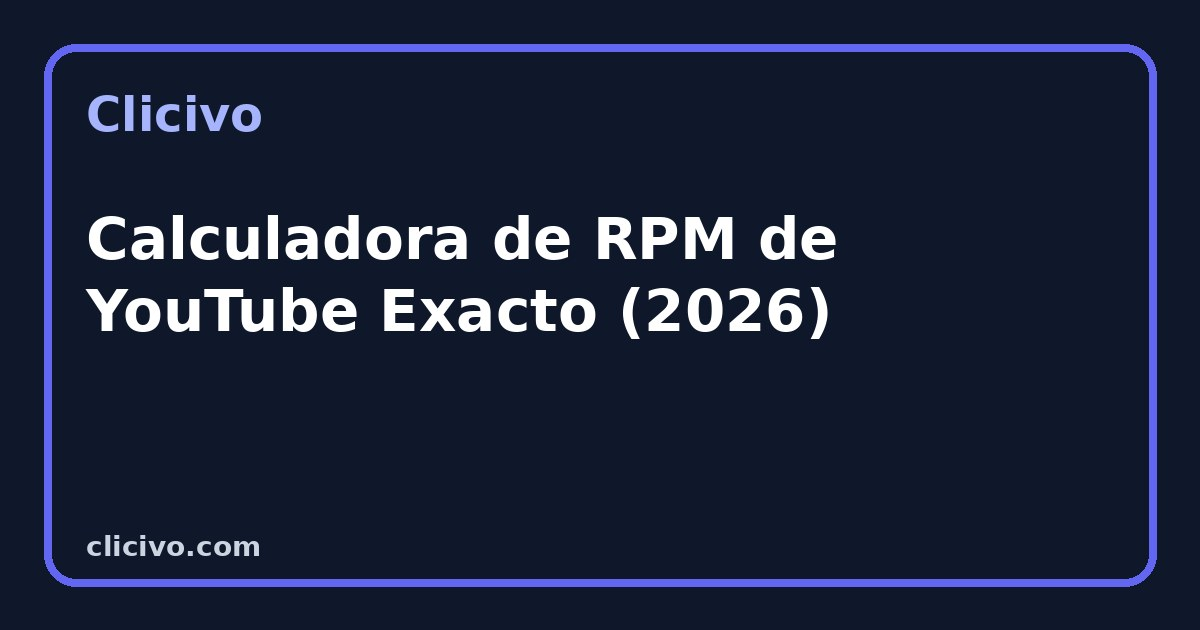
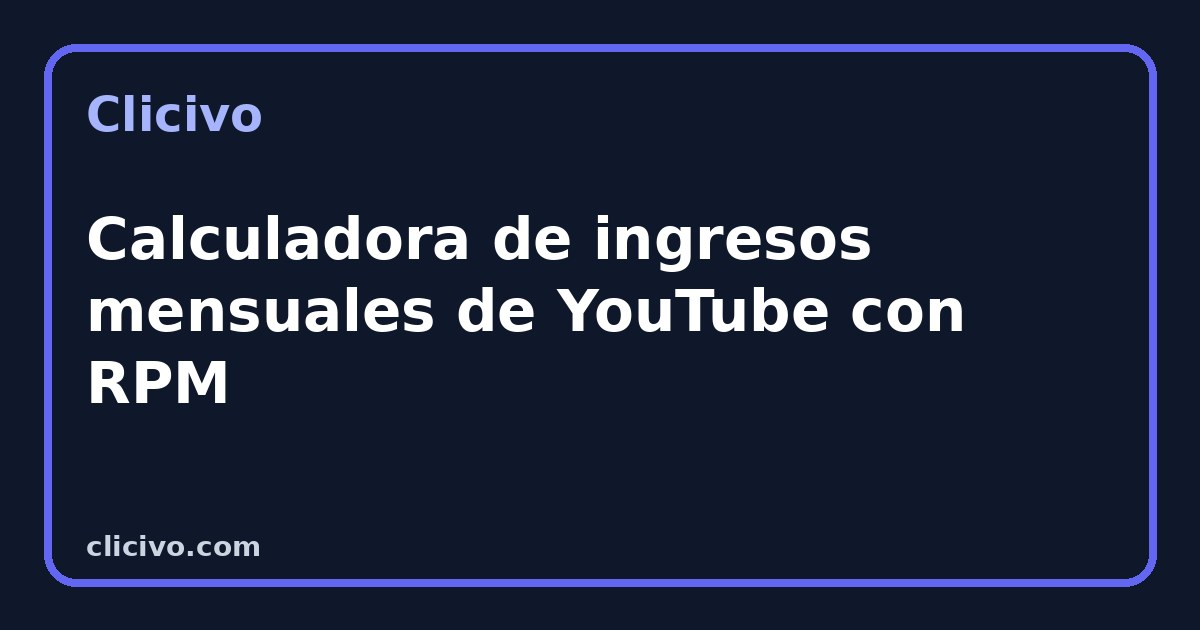
Deploying to gh-pages from @ unaiburguete-bot/minitools@fc1eda618243a52afbe258018976702f93efe385 🚀

Changed region(s): [[0.0617, 0.3317, 0.8017, 0.5429], [0.0617, 0.573, 0.2158, 0.6635]]

diff --git a/es/youtube/monetizacion/rpm-youtube/index.html b/es/youtube/monetizacion/rpm-youtube/index.html
@@ -3,23 +3,23 @@
 <head>
     <meta charset="utf-8">
     <meta name="viewport" content="width=device-width, initial-scale=1">
-    <title>Calculadora de RPM de YouTube Exacto (2026) | Clicivo</title>
-    <meta name="description" content="Calcula cuánto dinero genera tu canal de YouTube según tu RPM y visitas de forma automática.">
+    <title>Calculadora de ingresos mensuales de YouTube con RPM | Clicivo</title>
+    <meta name="description" content="Estima cuánto puede generar un canal de YouTube al mes según sus visualizaciones diarias, el número de días y su RPM.">
     <link rel="canonical" href="https://clicivo.com/es/youtube/monetizacion/rpm-youtube/">
     <meta property="og:type" content="website">
     <meta property="og:site_name" content="Clicivo">
-    <meta property="og:title" content="Calculadora de RPM de YouTube Exacto (2026)">
-    <meta property="og:description" content="Calcula cuánto dinero genera tu canal de YouTube según tu RPM y visitas de forma automática.">
+    <meta property="og:title" content="Calculadora de ingresos mensuales de YouTube con RPM">
+    <meta property="og:description" content="Estima cuánto puede generar un canal de YouTube al mes según sus visualizaciones diarias, el número de días y su RPM.">
     <meta property="og:url" content="https://clicivo.com/es/youtube/monetizacion/rpm-youtube/">
     <meta property="og:image" content="https://clicivo.com/assets/og/rpm-youtube.jpg/">
     <meta name="twitter:card" content="summary_large_image">
-    <meta name="twitter:title" content="Calculadora de RPM de YouTube Exacto (2026)">
-    <meta name="twitter:description" content="Calcula cuánto dinero genera tu canal de YouTube según tu RPM y visitas de forma automática.">
+    <meta name="twitter:title" content="Calculadora de ingresos mensuales de YouTube con RPM">
+    <meta name="twitter:description" content="Estima cuánto puede generar un canal de YouTube al mes según sus visualizaciones diarias, el número de días y su RPM.">
     <meta name="twitter:image" content="https://clicivo.com/assets/og/rpm-youtube.jpg/">
     <link rel="preconnect" href="https://fonts.googleapis.com">
     <link rel="preconnect" href="https://fonts.gstatic.com" crossorigin>
     <link href="https://fonts.googleapis.com/css2?family=Plus+Jakarta+Sans:wght@400;500;600;700;800&display=swap" rel="stylesheet">
-    <script type="application/ld+json">[{"@context":"https://schema.org","@type":"SoftwareApplication","name":"Calculadora de RPM de YouTube Exacto (2026)","description":"Calcula cuánto dinero genera tu canal de YouTube según tu RPM y visitas de forma automática.","url":"https://clicivo.com/es/youtube/monetizacion/rpm-youtube/","applicationCategory":"UtilitiesApplication","operatingSystem":"Any","offers":{"@type":"Offer","price":"0","priceCurrency":"EUR"}},{"@context":"https://schema.org","@type":"BreadcrumbList","itemListElement":[{"@type":"ListItem","position":1,"name":"Inicio","item":"https://clicivo.com/"},{"@type":"ListItem","position":2,"name":"Youtube · Monetizacion","item":"https://clicivo.com/es/youtube/monetizacion/"},{"@type":"ListItem","position":3,"name":"Revenue Per Mille","item":"https://clicivo.com/es/youtube/monetizacion/rpm-youtube/"}]}]</script>
+    <script type="application/ld+json">[{"@context":"https://schema.org","@type":"SoftwareApplication","name":"Calculadora de ingresos mensuales de YouTube con RPM","description":"Estima cuánto puede generar un canal de YouTube al mes según sus visualizaciones diarias, el número de días y su RPM.","url":"https://clicivo.com/es/youtube/monetizacion/rpm-youtube/","applicationCategory":"UtilitiesApplication","operatingSystem":"Any","offers":{"@type":"Offer","price":"0","priceCurrency":"EUR"}},{"@context":"https://schema.org","@type":"BreadcrumbList","itemListElement":[{"@type":"ListItem","position":1,"name":"Inicio","item":"https://clicivo.com/"},{"@type":"ListItem","position":2,"name":"Youtube · Monetizacion","item":"https://clicivo.com/es/youtube/monetizacion/"},{"@type":"ListItem","position":3,"name":"Ingresos mensuales estimados de YouTube","item":"https://clicivo.com/es/youtube/monetizacion/rpm-youtube/"}]}]</script>
     <style>
         :root {
             --bg:#f8fafc;--surface:#fff;--border:#e2e8f0;--text:#0f172a;--muted:#64748b;
@@ -51,12 +51,12 @@
 <nav class="header-nav"><div class="nav-container"><a href="/"><span class="brand-mark">◆</span> Clicivo</a></div></nav>
 <div class="main-layout">
     <main>
-        <nav class="breadcrumbs" aria-label="Migas de pan"><a href="/">Inicio</a> › <a href="/es/youtube/monetizacion/">Youtube · Monetizacion</a> › <span>Revenue Per Mille</span></nav>
+        <nav class="breadcrumbs" aria-label="Migas de pan"><a href="/">Inicio</a> › <a href="/es/youtube/monetizacion/">Youtube · Monetizacion</a> › <span>Ingresos mensuales estimados de YouTube</span></nav>
         <section class="tool-card">
             <span class="free-badge">Herramienta gratuita</span>
-            <h1>¿Cuánto dinero paga YouTube por tus visitas? Calcular RPM Exacto</h1>
+            <h1>Calcular ingresos mensuales estimados de YouTube con visualizaciones diarias y RPM</h1>
             <div class="tool-ui-box">
-        <label for="visitas">Número de Visitas Totales</label><input type="number" id="visitas" placeholder="Ej. 100000" inputmode="decimal" min="0" step="1"><label for="rpm">Tu RPM Estimado (€)</label><input type="number" id="rpm" placeholder="Ej. 4.25" inputmode="decimal" min="0" step="0.01">
+        <label for="visitas_diarias">Visualizaciones diarias</label><input type="number" id="visitas_diarias" placeholder="Ej. 10000" inputmode="decimal" min="0" step="1"><label for="dias">Número de días</label><input type="number" id="dias" placeholder="Ej. 30" inputmode="decimal" min="1" step="1"><label for="rpm">RPM estimado (€)</label><input type="number" id="rpm" placeholder="Ej. 4.25" inputmode="decimal" min="0" step="0.01">
         <button type="button" onclick="calculate_rpm_youtube()" class="calc-btn">Calcular ahora</button>
         <p id="error_rpm-youtube" class="calc-error" role="alert" hidden></p>
         <div id="result_rpm-youtube" class="calc-result-box" role="status" aria-live="polite" hidden></div>
@@ -71,12 +71,12 @@
                     errorBox.hidden = false;
                 };
                 errorBox.hidden = true;
-                const raw_visitas = document.getElementById("visitas").value.trim();if (raw_visitas === '') return showError('Completa el campo ' + "Número de Visitas Totales" + '.');const number_visitas = Number(raw_visitas);if (!Number.isFinite(number_visitas)) return showError('Introduce un número válido en ' + "Número de Visitas Totales" + '.');if (number_visitas < 0) return showError('El valor de ' + "Número de Visitas Totales" + ' no puede ser menor que 0.');values["inputs.visitas"] = number_visitas;const raw_rpm = document.getElementById("rpm").value.trim();if (raw_rpm === '') return showError('Completa el campo ' + "Tu RPM Estimado (€)" + '.');const number_rpm = Number(raw_rpm);if (!Number.isFinite(number_rpm)) return showError('Introduce un número válido en ' + "Tu RPM Estimado (€)" + '.');if (number_rpm < 0) return showError('El valor de ' + "Tu RPM Estimado (€)" + ' no puede ser menor que 0.');values["inputs.rpm"] = number_rpm;
-                if (1000 === 0) return showError('No es posible dividir entre cero.');values["bloques_mil"] = values["inputs.visitas"] / 1000;values["ingresos_totales"] = values["bloques_mil"] * values["inputs.rpm"];
-                const result = values["ingresos_totales"];
+                const raw_visitas_diarias = document.getElementById("visitas_diarias").value.trim();if (raw_visitas_diarias === '') return showError('Completa el campo ' + "Visualizaciones diarias" + '.');const number_visitas_diarias = Number(raw_visitas_diarias);if (!Number.isFinite(number_visitas_diarias)) return showError('Introduce un número válido en ' + "Visualizaciones diarias" + '.');if (number_visitas_diarias < 0) return showError('El valor de ' + "Visualizaciones diarias" + ' no puede ser menor que 0.');values["inputs.visitas_diarias"] = number_visitas_diarias;const raw_dias = document.getElementById("dias").value.trim();if (raw_dias === '') return showError('Completa el campo ' + "Número de días" + '.');const number_dias = Number(raw_dias);if (!Number.isFinite(number_dias)) return showError('Introduce un número válido en ' + "Número de días" + '.');if (number_dias < 1) return showError('El valor de ' + "Número de días" + ' no puede ser menor que 1.');values["inputs.dias"] = number_dias;const raw_rpm = document.getElementById("rpm").value.trim();if (raw_rpm === '') return showError('Completa el campo ' + "RPM estimado (€)" + '.');const number_rpm = Number(raw_rpm);if (!Number.isFinite(number_rpm)) return showError('Introduce un número válido en ' + "RPM estimado (€)" + '.');if (number_rpm < 0) return showError('El valor de ' + "RPM estimado (€)" + ' no puede ser menor que 0.');values["inputs.rpm"] = number_rpm;
+                values["visitas_periodo"] = values["inputs.visitas_diarias"] * values["inputs.dias"];if (1000 === 0) return showError('No es posible dividir entre cero.');values["bloques_mil"] = values["visitas_periodo"] / 1000;values["ingresos_periodo"] = values["bloques_mil"] * values["inputs.rpm"];
+                const result = values["ingresos_periodo"];
                 if (!Number.isFinite(result)) return showError('No se ha podido calcular el resultado. Revisa los valores.');
                 const formatted = new Intl.NumberFormat('es-ES', { maximumFractionDigits: 2 }).format(result);
-                resultBox.textContent = "Ingresos Totales Estimados" + ': ' + formatted + ("€" ? ' ' + "€" : '');
+                resultBox.textContent = "Ingresos estimados del periodo" + ': ' + formatted + (" €" ? ' ' + " €" : '');
                 resultBox.hidden = false;
             }
         </script>
@@ -84,15 +84,35 @@
         </section>
         
         <article class="seo-article">
-            <h1>¿Cuánto paga YouTube realmente? Guía definitiva sobre el RPM</h1>
-<p>El <strong>RPM</strong> (Revenue Per Mille) es la métrica más honesta y transparente que existe para un creador de contenido. A diferencia del CPM, el RPM calcula el dinero real que va a parar a tu bolsillo tras las comisiones de la plataforma.</p>
-<h2>Ejemplos prácticos de cálculo en escenarios reales</h2>
-<p>El RPM cambia según el país de la audiencia, la temática, la época del año, la duración de los vídeos y la mezcla de ingresos. Para obtener una proyección útil, introduce el RPM real que aparece en YouTube Analytics y compara periodos equivalentes.</p>
-<h2>Errores críticos al analizar tus métricas</h2>
-<p>El fallo más común de los principiantes es multiplicar sus visitas totales por el CPM de los vídeos. Recuerda que no todas las visualizaciones generan publicidad y que el reparto de ingresos depende del producto y del formato. Para proyectar el negocio, utiliza el RPM real de tu canal y explica siempre que el resultado es una estimación.</p>
-            <p class="reviewed">Última revisión: 2026-07-11</p>
+            <h1>Calculadora de ingresos mensuales de YouTube</h1>
+<p>Esta herramienta estima cuánto podría generar un canal durante un mes o cualquier otro periodo a partir de sus visualizaciones diarias y su RPM.</p>
+<p>La fórmula utilizada es:</p>
+<p><strong>Ingresos estimados = visualizaciones diarias × días ÷ 1.000 × RPM</strong></p>
+<h2>Ejemplo práctico</h2>
+<p>Un canal recibe <strong>10.000 visualizaciones diarias</strong>, mantiene ese ritmo durante <strong>30 días</strong> y tiene un RPM de <strong>4,25 €</strong>:</p>
+<p><strong>10.000 × 30 ÷ 1.000 × 4,25 = 1.275 €</strong></p>
+<p>Los ingresos estimados del periodo serían <strong>1.275 €</strong>.</p>
+<h2>Cómo utilizar esta calculadora</h2>
+<p>Introduce:</p>
+<ul>
+<li>La media de visualizaciones que recibe el canal cada día.</li>
+<li>El número de días que deseas proyectar.</li>
+<li>El RPM real o estimado del canal.</li>
+</ul>
+<p>Puedes utilizar 30 días para una proyección mensual o cambiar el periodo para calcular una semana, un trimestre u otra duración.</p>
+<h2>Qué RPM conviene introducir</h2>
+<p>Para una estimación realista, utiliza el RPM de YouTube Analytics correspondiente a un periodo reciente y comparable.</p>
+<p>También puedes probar tres escenarios:</p>
+<ul>
+<li>Prudente, con un RPM bajo.</li>
+<li>Probable, con el RPM medio del canal.</li>
+<li>Optimista, con un RPM más alto.</li>
+</ul>
+<h2>Limitaciones</h2>
+<p>La proyección presupone que el ritmo de visualizaciones y el RPM se mantienen estables durante todo el periodo. Los resultados reales pueden variar por país, temática, época del año, duración de los vídeos y porcentaje de visualizaciones monetizadas.</p>
+            <p class="reviewed">Última revisión: 2026-07-12</p>
             <h2 class="faq-heading">Preguntas frecuentes</h2>
-            <div class="faq-item"><h3>¿Cuál es la diferencia entre CPM y RPM?</h3><p>El CPM es el coste que pagan los anunciantes por cada 1.000 impresiones de anuncios, mientras que el RPM son tus ingresos netos reales por cada 1.000 visitas tras la comisión de YouTube.</p></div><div class="faq-item"><h3>¿Cómo puedo subir mi RPM?</h3><p>El RPM varía según la audiencia, la temática, la estacionalidad, el formato publicitario y otras fuentes de ingresos. Compáralo por periodos equivalentes y revisa los datos reales de YouTube Analytics.</p></div>
+            <div class="faq-item"><h3>¿Cómo se calculan los ingresos mensuales de YouTube?</h3><p>Se multiplican las visualizaciones diarias por el número de días, se divide el resultado entre 1.000 y se multiplica por el RPM.</p></div><div class="faq-item"><h3>¿El resultado es una cantidad garantizada?</h3><p>No. Es una estimación basada en el RPM introducido. Los ingresos reales pueden variar por audiencia, temática, estacionalidad y visualizaciones monetizadas.</p></div>
         </article>
     </main>
     <aside><section class="sidebar-box"><h2>Herramientas relacionadas</h2><ul class="sidebar-link-list"><li><a href="/es/youtube/monetizacion/calcular-rpm-youtube/">Calculadora de RPM de YouTube con ingresos y visualizaciones</a></li><li><a href="/es/youtube/monetizacion/ingresos-youtube/">Calculadora de ingresos de YouTube por visitas y RPM</a></li><li><a href="/es/youtube/monetizacion/visualizaciones-objetivo-youtube/">Calculadora de visualizaciones necesarias para ganar dinero en YouTube</a></li></ul></section></aside>

diff --git a/index.html b/index.html
@@ -70,8 +70,8 @@
         
         <article class="tool-card-home">
             <span class="tag">YouTube</span>
-            <h2><a href="/es/youtube/monetizacion/rpm-youtube/">Calculadora de RPM de YouTube Exacto (2026)</a></h2>
-            <p>Calcula cuánto dinero genera tu canal de YouTube según tu RPM y visitas de forma automática.</p>
+            <h2><a href="/es/youtube/monetizacion/rpm-youtube/">Calculadora de ingresos mensuales de YouTube con RPM</a></h2>
+            <p>Estima cuánto puede generar un canal de YouTube al mes según sus visualizaciones diarias, el número de días y su RPM.</p>
             <a class="card-link" href="/es/youtube/monetizacion/rpm-youtube/">Abrir herramienta →</a>
         </article>
         

diff --git a/es/youtube/monetizacion/calcular-rpm-youtube/index.html b/es/youtube/monetizacion/calcular-rpm-youtube/index.html
@@ -119,7 +119,7 @@
             <div class="faq-item"><h3>¿Cómo se calcula el RPM de YouTube?</h3><p>Se dividen los ingresos obtenidos entre las visualizaciones y se multiplica el resultado por 1.000.</p></div><div class="faq-item"><h3>¿Debo usar visualizaciones totales o monetizadas?</h3><p>Para calcular el RPM general del canal, utiliza las visualizaciones totales del periodo correspondiente a los ingresos introducidos.</p></div>
         </article>
     </main>
-    <aside><section class="sidebar-box"><h2>Herramientas relacionadas</h2><ul class="sidebar-link-list"><li><a href="/es/youtube/monetizacion/ingresos-youtube/">Calculadora de ingresos de YouTube por visitas y RPM</a></li><li><a href="/es/youtube/monetizacion/visualizaciones-objetivo-youtube/">Calculadora de visualizaciones necesarias para ganar dinero en YouTube</a></li><li><a href="/es/youtube/monetizacion/rpm-youtube/">Calculadora de RPM de YouTube Exacto (2026)</a></li></ul></section></aside>
+    <aside><section class="sidebar-box"><h2>Herramientas relacionadas</h2><ul class="sidebar-link-list"><li><a href="/es/youtube/monetizacion/ingresos-youtube/">Calculadora de ingresos de YouTube por visitas y RPM</a></li><li><a href="/es/youtube/monetizacion/rpm-youtube/">Calculadora de ingresos mensuales de YouTube con RPM</a></li><li><a href="/es/youtube/monetizacion/visualizaciones-objetivo-youtube/">Calculadora de visualizaciones necesarias para ganar dinero en YouTube</a></li></ul></section></aside>
 </div>
 <footer>© 2026 Clicivo. Herramientas claras para decisiones rápidas.</footer>
 </body>

diff --git a/es/youtube/monetizacion/index.html b/es/youtube/monetizacion/index.html
@@ -12,4 +12,4 @@
 </style>
 </head>
 <body><header><div class="wrap"><a href="/">◆ Clicivo</a></div></header>
-<main class="wrap"><div class="crumbs"><a href="/">Inicio</a> › Youtube · Monetizacion</div><h1>Youtube · Monetizacion</h1><p class="intro">Calculadoras y utilidades gratuitas para resolver tareas de youtube · monetizacion.</p><div class="grid"><article><h2><a href="/es/youtube/monetizacion/calcular-rpm-youtube/">Calculadora de RPM de YouTube con ingresos y visualizaciones</a></h2><p>Calcula el RPM real de un canal de YouTube introduciendo los ingresos obtenidos y el número de visualizaciones.</p></article><article><h2><a href="/es/youtube/monetizacion/ingresos-youtube/">Calculadora de ingresos de YouTube por visitas y RPM</a></h2><p>Estima cuánto dinero puede generar un canal de YouTube introduciendo sus visualizaciones y el RPM real o previsto.</p></article><article><h2><a href="/es/youtube/monetizacion/rpm-youtube/">Calculadora de RPM de YouTube Exacto (2026)</a></h2><p>Calcula cuánto dinero genera tu canal de YouTube según tu RPM y visitas de forma automática.</p></article><article><h2><a href="/es/youtube/monetizacion/visualizaciones-objetivo-youtube/">Calculadora de visualizaciones necesarias para ganar dinero en YouTube</a></h2><p>Calcula cuántas visualizaciones necesita un canal de YouTube para alcanzar unos ingresos objetivo según su RPM.</p></article></div></main></body></html>
+<main class="wrap"><div class="crumbs"><a href="/">Inicio</a> › Youtube · Monetizacion</div><h1>Youtube · Monetizacion</h1><p class="intro">Calculadoras y utilidades gratuitas para resolver tareas de youtube · monetizacion.</p><div class="grid"><article><h2><a href="/es/youtube/monetizacion/calcular-rpm-youtube/">Calculadora de RPM de YouTube con ingresos y visualizaciones</a></h2><p>Calcula el RPM real de un canal de YouTube introduciendo los ingresos obtenidos y el número de visualizaciones.</p></article><article><h2><a href="/es/youtube/monetizacion/ingresos-youtube/">Calculadora de ingresos de YouTube por visitas y RPM</a></h2><p>Estima cuánto dinero puede generar un canal de YouTube introduciendo sus visualizaciones y el RPM real o previsto.</p></article><article><h2><a href="/es/youtube/monetizacion/rpm-youtube/">Calculadora de ingresos mensuales de YouTube con RPM</a></h2><p>Estima cuánto puede generar un canal de YouTube al mes según sus visualizaciones diarias, el número de días y su RPM.</p></article><article><h2><a href="/es/youtube/monetizacion/visualizaciones-objetivo-youtube/">Calculadora de visualizaciones necesarias para ganar dinero en YouTube</a></h2><p>Calcula cuántas visualizaciones necesita un canal de YouTube para alcanzar unos ingresos objetivo según su RPM.</p></article></div></main></body></html>

diff --git a/es/youtube/monetizacion/ingresos-youtube/index.html b/es/youtube/monetizacion/ingresos-youtube/index.html
@@ -102,7 +102,7 @@
             <div class="faq-item"><h3>¿Cómo se calculan los ingresos estimados de YouTube?</h3><p>Se dividen las visualizaciones entre 1.000 y se multiplica el resultado por el RPM del canal.</p></div><div class="faq-item"><h3>¿El resultado coincide exactamente con lo que paga YouTube?</h3><p>No necesariamente. Es una estimación basada en el RPM introducido.</p></div>
         </article>
     </main>
-    <aside><section class="sidebar-box"><h2>Herramientas relacionadas</h2><ul class="sidebar-link-list"><li><a href="/es/youtube/monetizacion/calcular-rpm-youtube/">Calculadora de RPM de YouTube con ingresos y visualizaciones</a></li><li><a href="/es/youtube/monetizacion/visualizaciones-objetivo-youtube/">Calculadora de visualizaciones necesarias para ganar dinero en YouTube</a></li><li><a href="/es/youtube/monetizacion/rpm-youtube/">Calculadora de RPM de YouTube Exacto (2026)</a></li></ul></section></aside>
+    <aside><section class="sidebar-box"><h2>Herramientas relacionadas</h2><ul class="sidebar-link-list"><li><a href="/es/youtube/monetizacion/calcular-rpm-youtube/">Calculadora de RPM de YouTube con ingresos y visualizaciones</a></li><li><a href="/es/youtube/monetizacion/rpm-youtube/">Calculadora de ingresos mensuales de YouTube con RPM</a></li><li><a href="/es/youtube/monetizacion/visualizaciones-objetivo-youtube/">Calculadora de visualizaciones necesarias para ganar dinero en YouTube</a></li></ul></section></aside>
 </div>
 <footer>© 2026 Clicivo. Herramientas claras para decisiones rápidas.</footer>
 </body>

diff --git a/es/youtube/monetizacion/visualizaciones-objetivo-youtube/index.html b/es/youtube/monetizacion/visualizaciones-objetivo-youtube/index.html
@@ -117,7 +117,7 @@
             <div class="faq-item"><h3>¿Cómo se calculan las visualizaciones necesarias para alcanzar unos ingresos?</h3><p>Se dividen los ingresos objetivo entre el RPM y se multiplica el resultado por 1.000.</p></div><div class="faq-item"><h3>¿El resultado es exacto?</h3><p>No. Es una estimación basada en el RPM introducido. Los ingresos reales pueden variar por país, temática, estacionalidad y porcentaje de visualizaciones monetizadas.</p></div>
         </article>
     </main>
-    <aside><section class="sidebar-box"><h2>Herramientas relacionadas</h2><ul class="sidebar-link-list"><li><a href="/es/youtube/monetizacion/calcular-rpm-youtube/">Calculadora de RPM de YouTube con ingresos y visualizaciones</a></li><li><a href="/es/youtube/monetizacion/ingresos-youtube/">Calculadora de ingresos de YouTube por visitas y RPM</a></li><li><a href="/es/youtube/monetizacion/rpm-youtube/">Calculadora de RPM de YouTube Exacto (2026)</a></li></ul></section></aside>
+    <aside><section class="sidebar-box"><h2>Herramientas relacionadas</h2><ul class="sidebar-link-list"><li><a href="/es/youtube/monetizacion/calcular-rpm-youtube/">Calculadora de RPM de YouTube con ingresos y visualizaciones</a></li><li><a href="/es/youtube/monetizacion/ingresos-youtube/">Calculadora de ingresos de YouTube por visitas y RPM</a></li><li><a href="/es/youtube/monetizacion/rpm-youtube/">Calculadora de ingresos mensuales de YouTube con RPM</a></li></ul></section></aside>
 </div>
 <footer>© 2026 Clicivo. Herramientas claras para decisiones rápidas.</footer>
 </body>